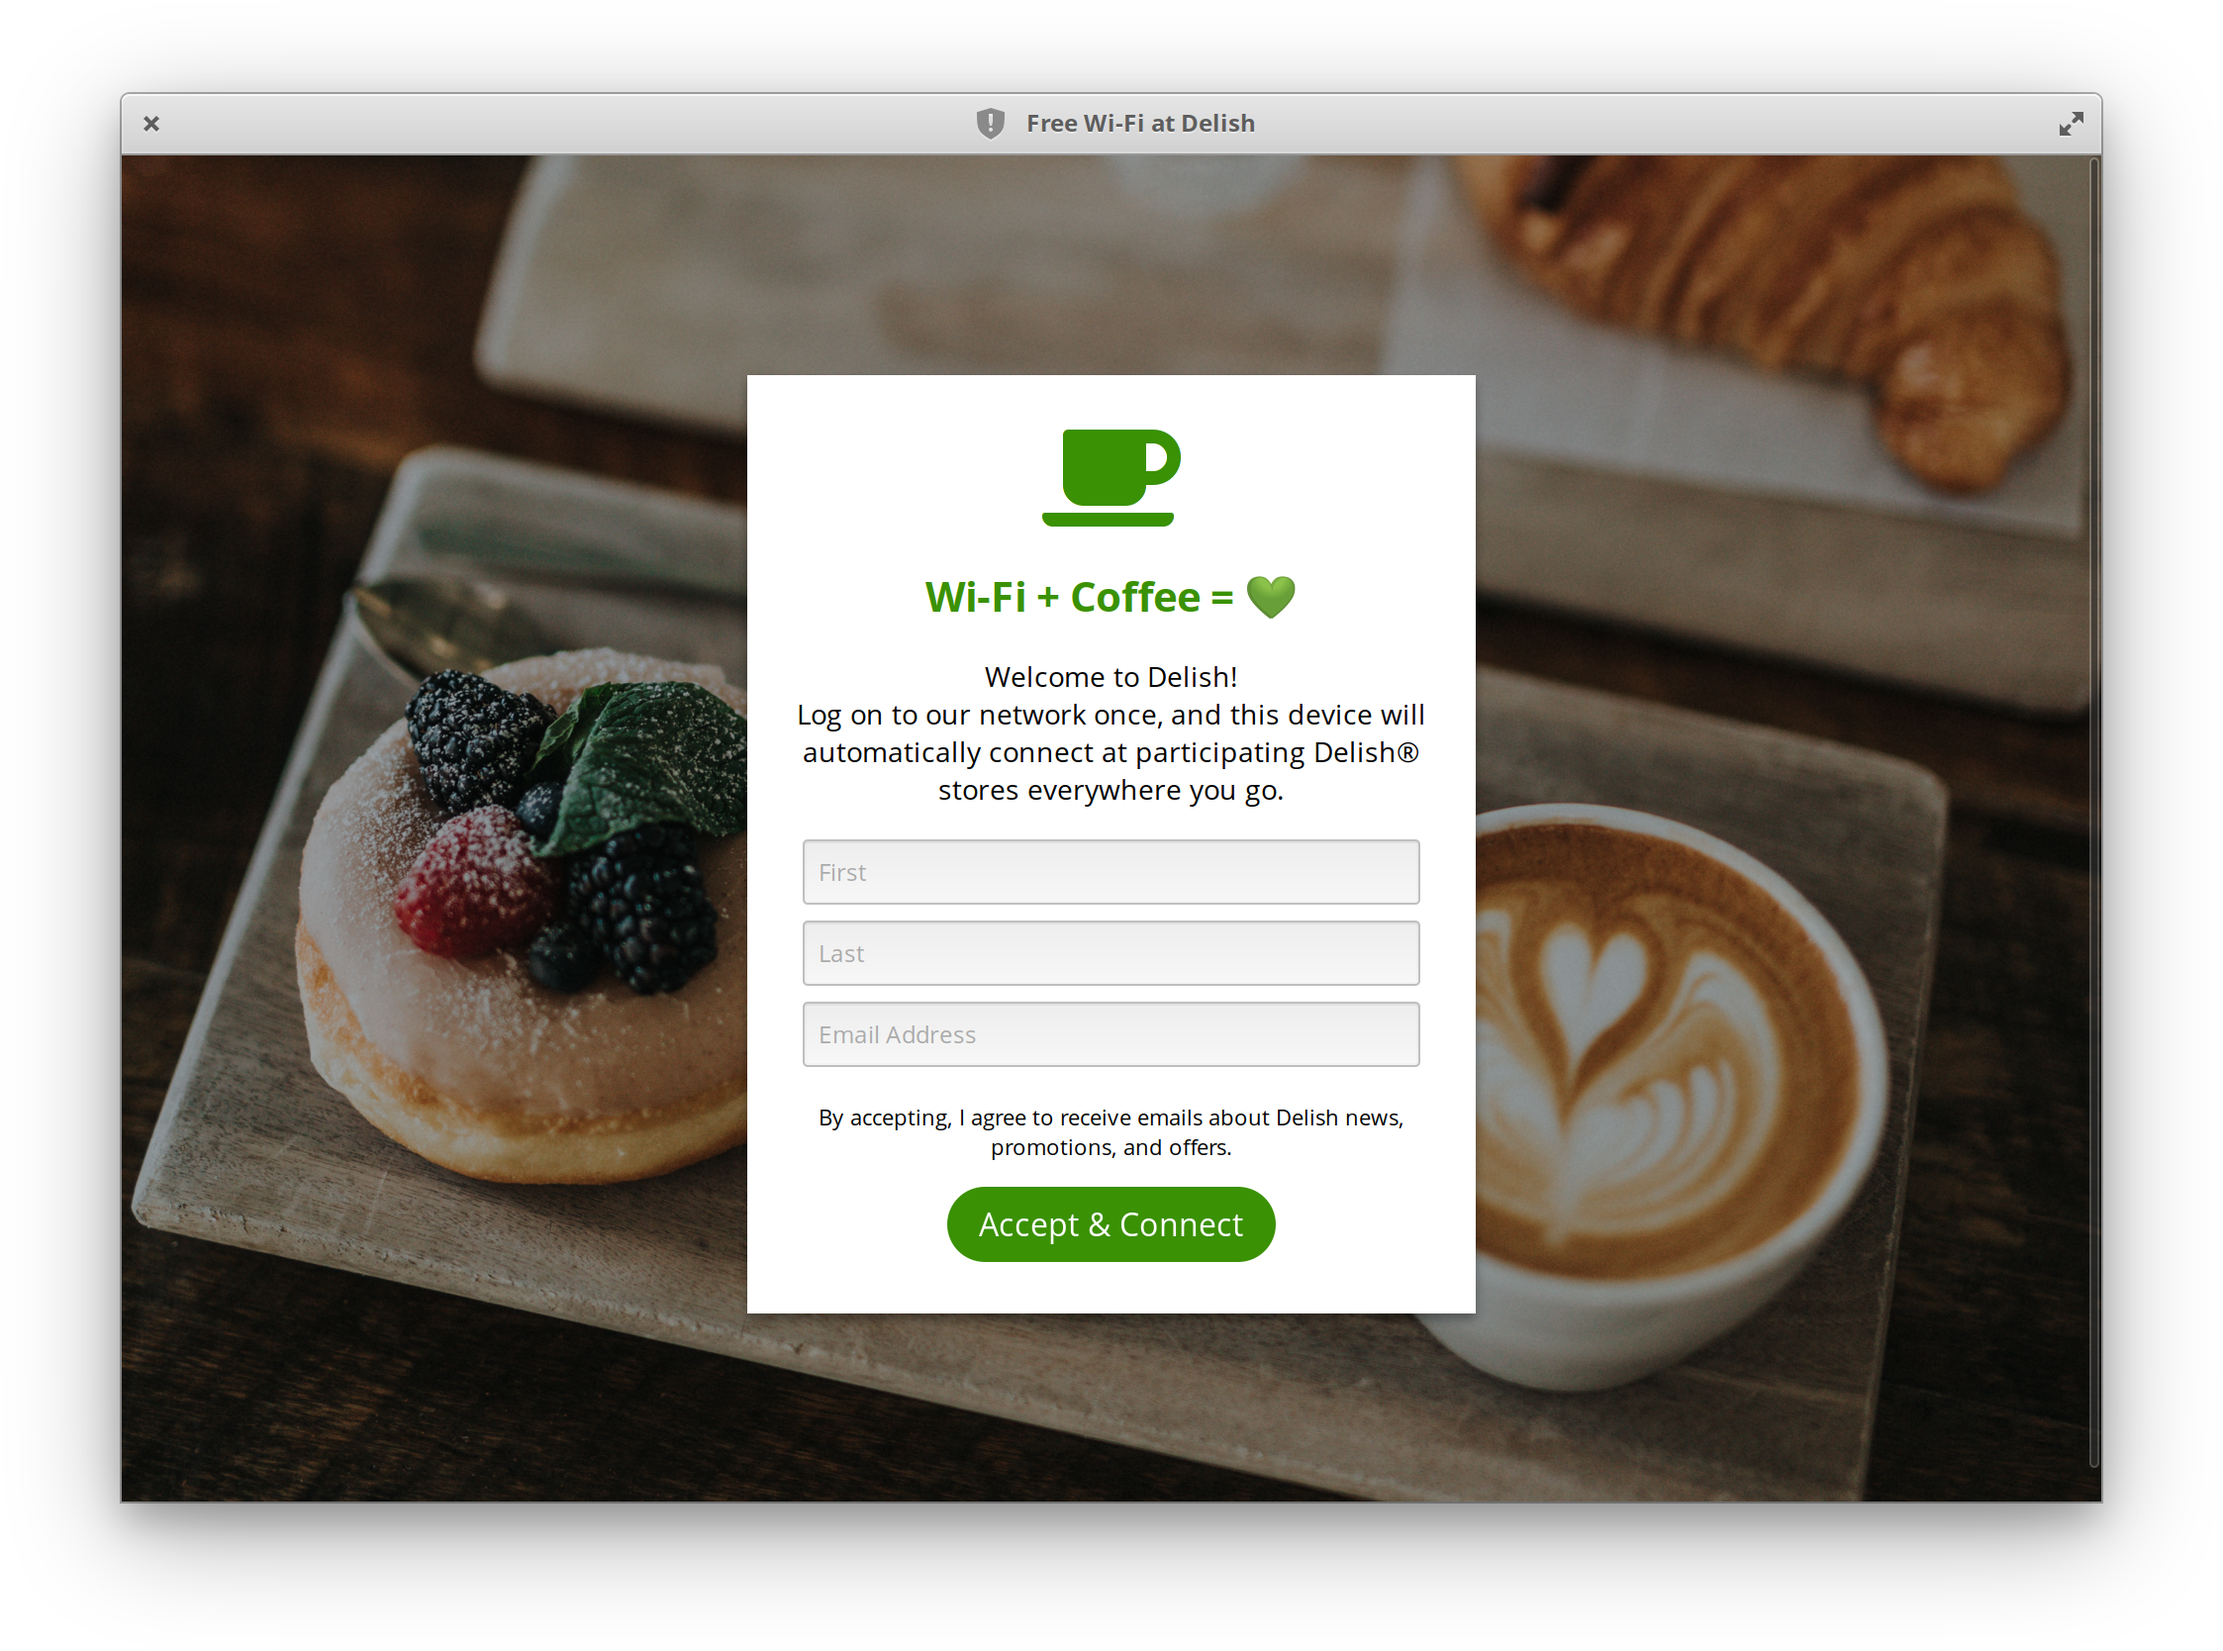
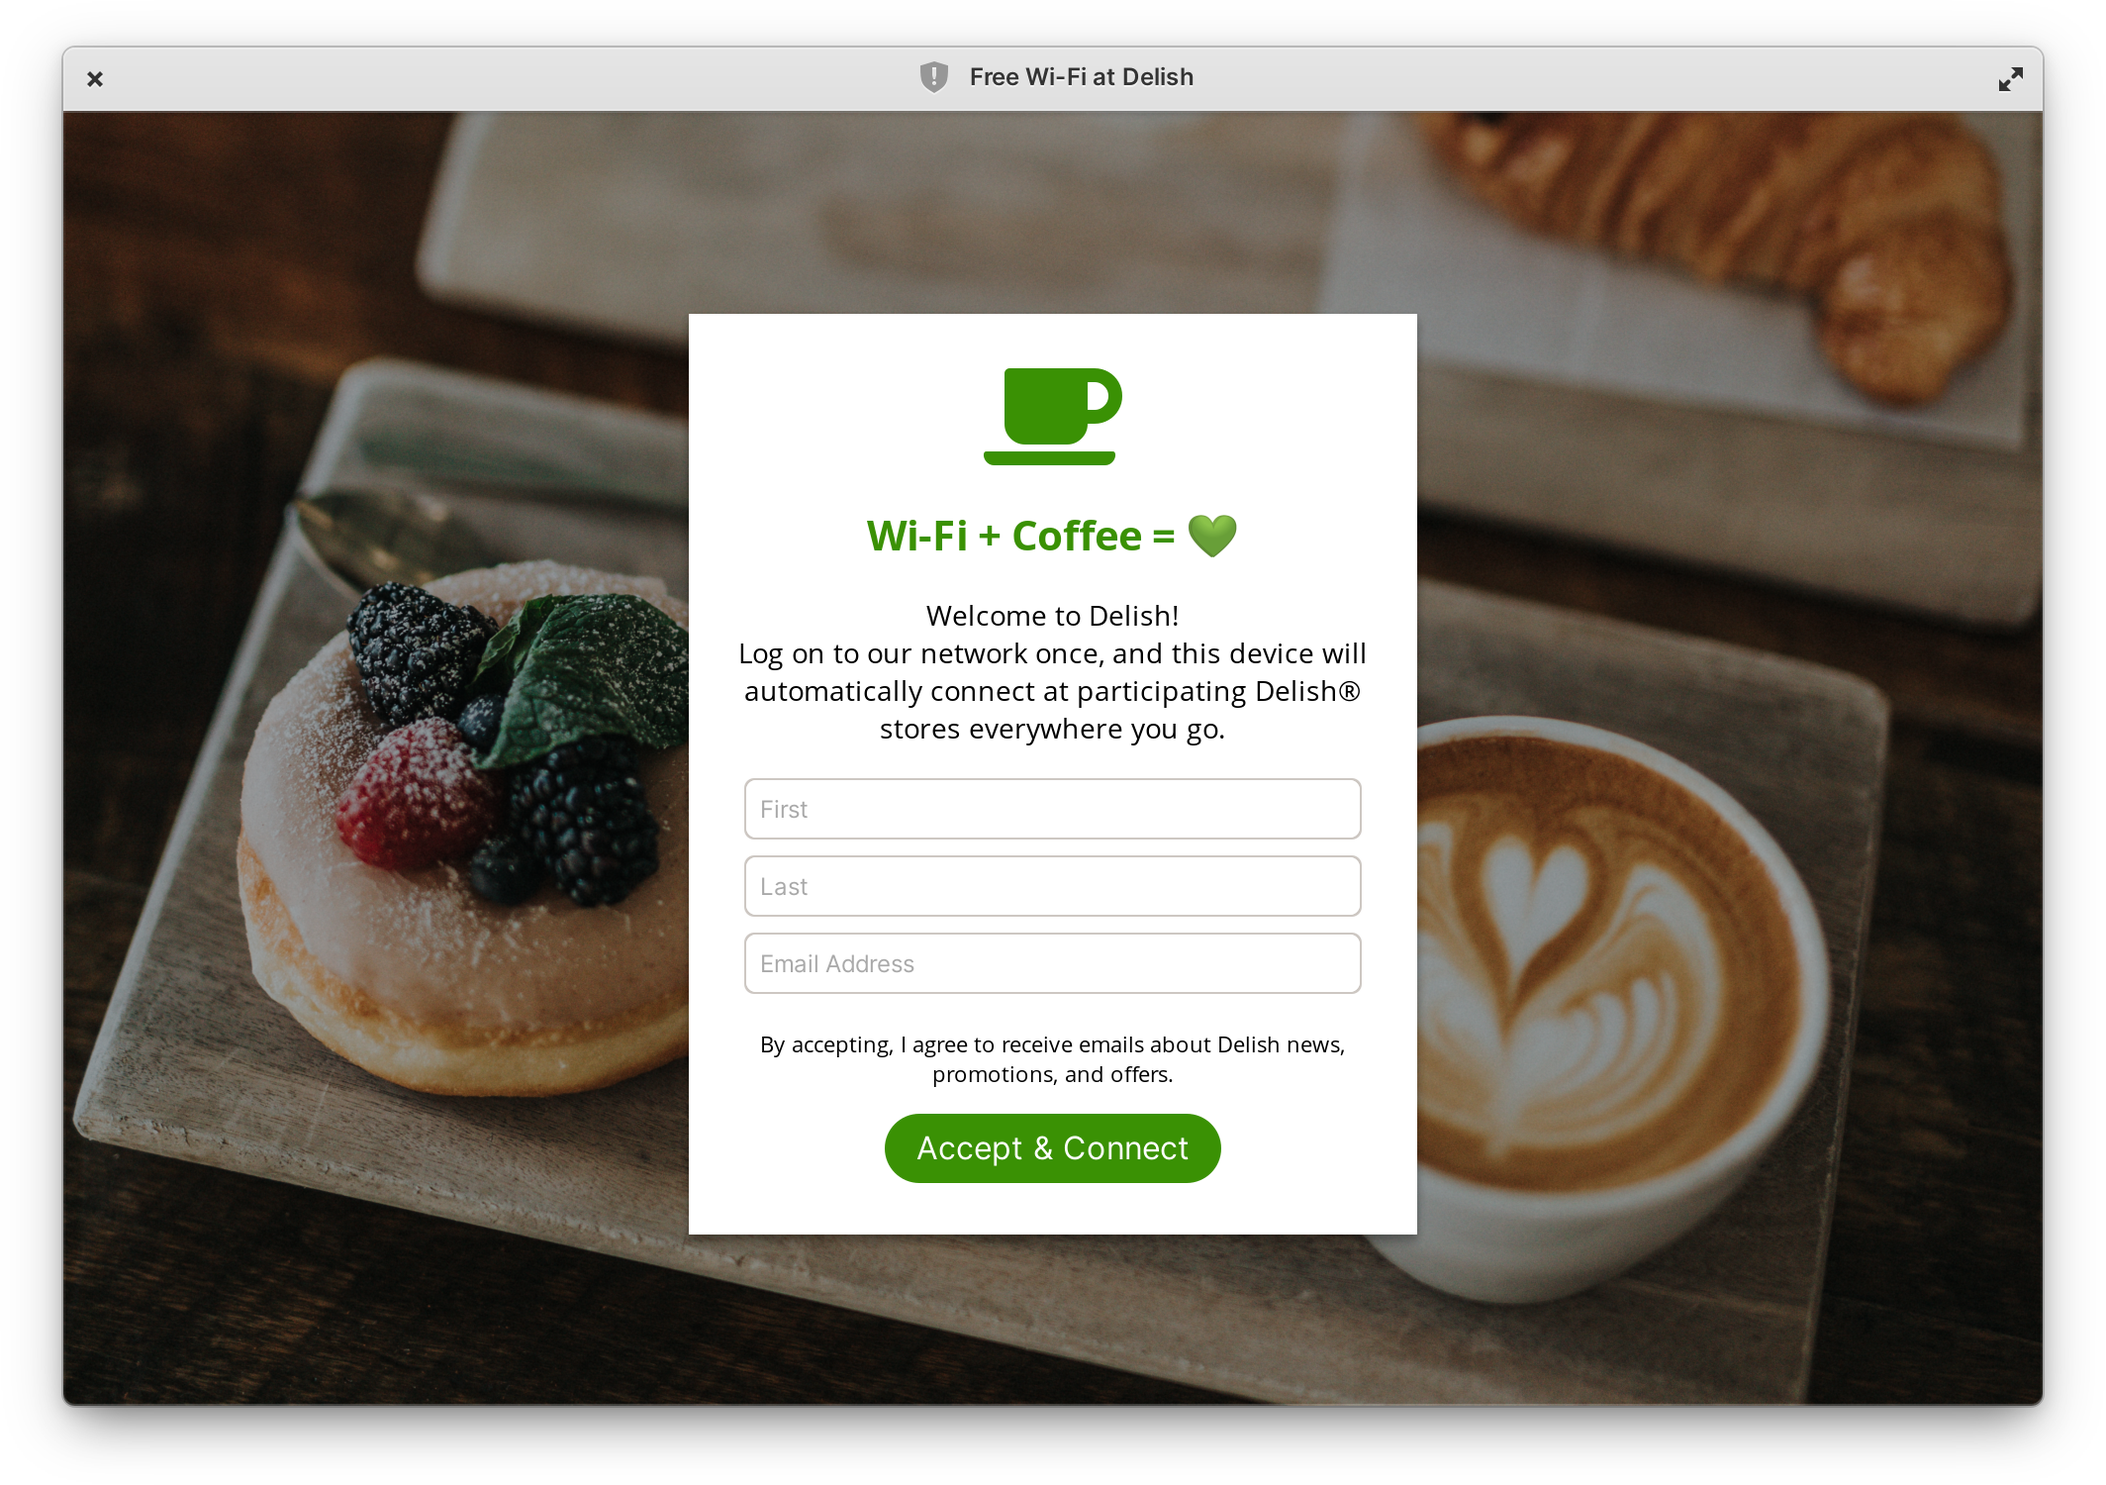
CaptiveLogin: Subclass Hdy.ApplicationWindow

diff --git a/README.md b/README.md
@@ -12,6 +12,7 @@ You'll need the following dependencies:
 * libglib2.0-dev
 * libgranite-dev
 * libgtk-3-dev
+* libhandy-1-dev >= 1.0.0
 * libwebkit2gtk-4.0-dev
 * meson
 * valac
